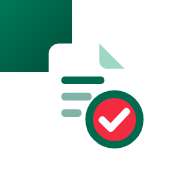
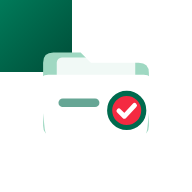
Add files via upload

diff --git a/index.html b/index.html
@@ -332,7 +332,7 @@ body,#top,.panel,.seg,.pcard,.sum,table.reg,input,select,textarea{transition:bac
 .btn{transition:background-color .15s,border-color .15s,filter .15s,transform .1s}
 .btn:active{transform:scale(.97)}
 .cover{animation:pop .4s cubic-bezier(.2,.9,.3,1.15)}
-.logo .seal{transform-origin:42px 43px;animation:stamp .6s .3s cubic-bezier(.2,.9,.3,1.2) backwards}
+.logo .seal{transform-origin:68px 61px;animation:stamp .6s .3s cubic-bezier(.2,.9,.3,1.2) backwards}
 #view.enter{animation:rise .28s ease-out}
 #view.enter .seg{animation:rise .35s ease-out backwards;animation-delay:calc(var(--i,0)*30ms)}
 #view.enter .bar i{animation:grow .8s .15s ease-out backwards}
@@ -873,7 +873,7 @@ function migrate(ix){
 }
 
 /* ---------- gate screens ---------- */
-const LOGO = `<svg class="logo" xmlns="http://www.w3.org/2000/svg" viewBox="0 0 64 64" role="img" aria-label="Shenanothi logo"><rect x="3" y="3" width="58" height="58" rx="14" fill="#006A4E" stroke="rgba(255,255,255,.35)" stroke-width="1.5"/><path d="M20 13h16l10 10v24a4 4 0 0 1-4 4H20a4 4 0 0 1-4-4V17a4 4 0 0 1 4-4z" fill="#fff"/><path d="M36 13l10 10h-7a3 3 0 0 1-3-3z" fill="#9FD8C2"/><rect x="21" y="26" width="17" height="3" rx="1.5" fill="#006A4E"/><rect x="21" y="32.5" width="12" height="3" rx="1.5" fill="#006A4E" opacity=".5"/><rect x="21" y="39" width="8" height="3" rx="1.5" fill="#006A4E" opacity=".5"/><g class="seal"><circle cx="42" cy="43" r="10" fill="#F42A41" stroke="#006A4E" stroke-width="3"/><path d="M37.2 43.2l3.3 3.3 6.2-6.6" fill="none" stroke="#fff" stroke-width="2.8" stroke-linecap="round" stroke-linejoin="round"/></g></svg>`;
+const LOGO = `<svg class="logo" xmlns="http://www.w3.org/2000/svg" viewBox="0 0 100 100" role="img" aria-label="Shenanothi logo"><rect x="1.5" y="1.5" width="97" height="97" rx="22" fill="#006A4E" stroke="rgba(255,255,255,.35)" stroke-width="2"/><path d="M19 33 Q19 27 25 27 H41 L47 33 H75 Q81 33 81 39 V70 Q81 76 75 76 H25 Q19 76 19 70 Z" fill="#9FD8C2"/><rect x="27" y="30" width="46" height="30" rx="3" fill="#fff" opacity=".85"/><path d="M17 45 Q17 40 22 40 H78 Q83 40 83 45 L80 72 Q79.5 78 74 78 H26 Q20.5 78 20 72 Z" fill="#fff"/><rect x="28" y="54" width="24" height="5" rx="2.5" fill="#006A4E" opacity=".6"/><g class="seal"><circle cx="68" cy="61" r="10" fill="#F42A41" stroke="#006A4E" stroke-width="3"/><path d="M63.4 61.2 l3.2 3.2 6-6.4" fill="none" stroke="#fff" stroke-width="2.8" stroke-linecap="round" stroke-linejoin="round"/></g></svg>`;
 const MAIL = '<svg viewBox="0 0 24 24" fill="none" stroke="currentColor" stroke-width="2" stroke-linecap="round" stroke-linejoin="round" aria-hidden="true"><rect x="3" y="5" width="18" height="14" rx="2.5"/><path d="M3.5 7.5l8.5 6 8.5-6"/></svg>';
 const MARK = `<div class="mark">${LOGO}<div><h1>সেনানথি</h1><div class="muted">Shenanothi, my service file</div></div></div>`;
 $('#hLogo').innerHTML = LOGO;
